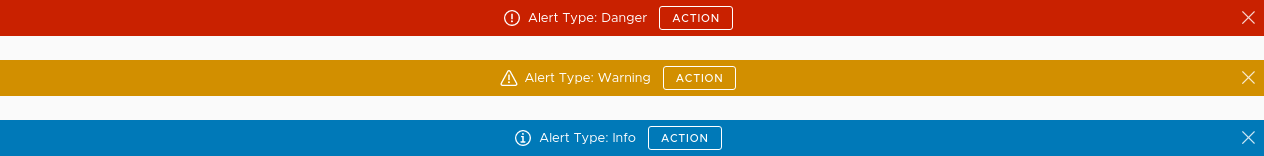
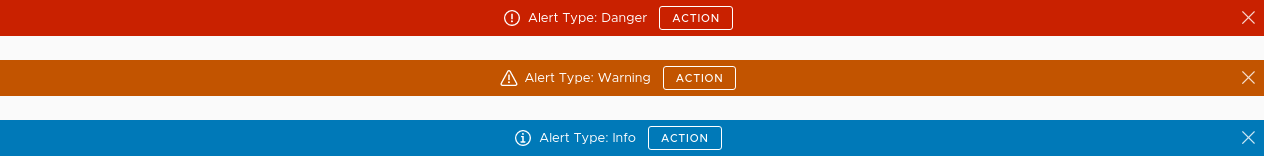
fix: reverting app-level orange alerts to intended color (#3612)

Changed region(s): [[0.0, 0.3846, 1.0, 0.6154]]

diff --git a/src/clr-angular/emphasis/alert/_variables.alert.scss b/src/clr-angular/emphasis/alert/_variables.alert.scss
@@ -105,7 +105,8 @@ $clr-app-alert-info-close-icon-hover-opacity: $clr-app-alert-close-icon-hover-op
 
 // App Warning type
 // Usage: ./_alert.clarity.scss
-$clr-app-alert-warning-bg-color: $clr-color-warning-800 !default;
+// TODO-UX: why is the next color not in our color palettes?
+$clr-app-alert-warning-bg-color: #c25400 !default;
 $clr-app-alert-warning-icon-color: $clr-app-alert-close-icon-color !default;
 $clr-app-alert-warning-border-color: none !default;
 $clr-app-alert-warning-font-color: $clr-app-level-alert-color !default;
